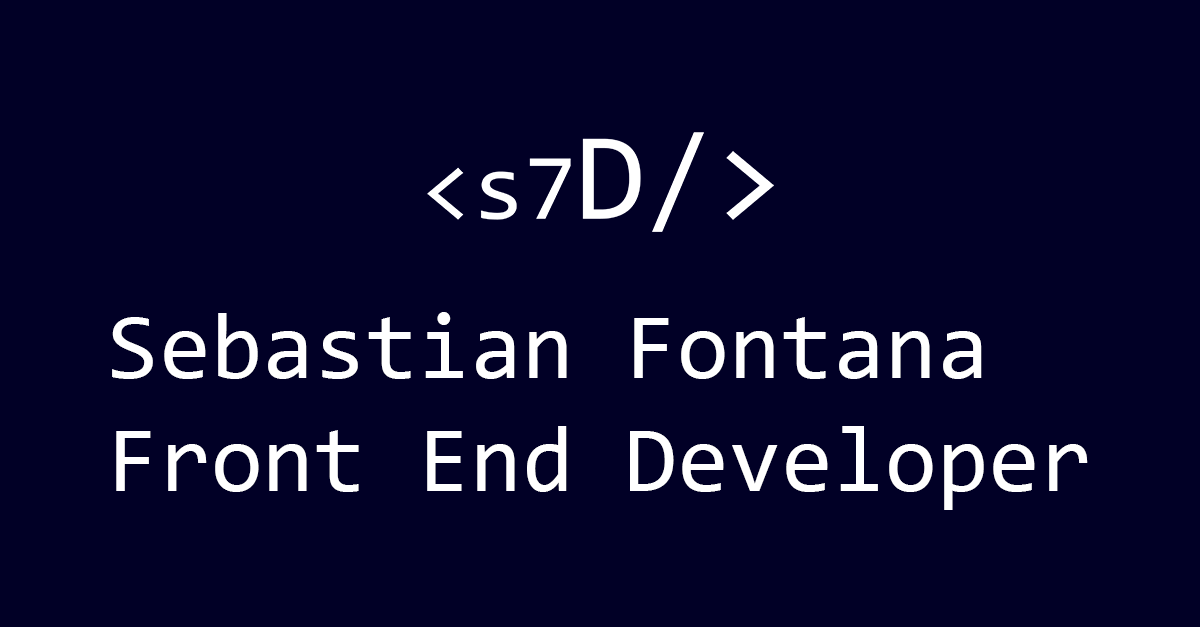
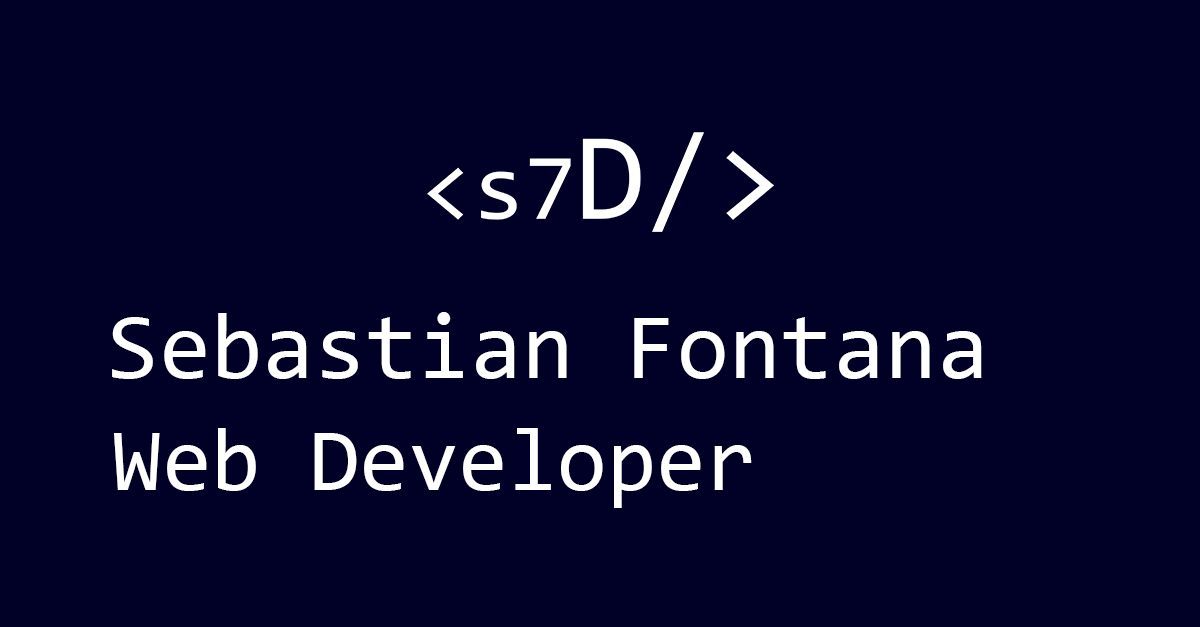
changing meta image and oc names

Changed region(s): [[0.0925, 0.6667, 0.925, 0.8182]]

diff --git a/public/index.html b/public/index.html
@@ -6,14 +6,14 @@
   <link rel="icon" href="%PUBLIC_URL%/favicon.png" />
   <meta name="viewport" content="width=device-width, initial-scale=1" />
   <meta name="theme-color" content="#000000" />
-  <meta name="description" content="Sebastian Fontana's personal website, built using React JS and Tailwind CSS. As a web developer, Sebastian showcases his portfolio, skills, and projects." />
+  <meta name="description" content="Sebastian Fontana's personal website, built using React JS and Tailwind CSS. As a web developer, I showcases my portfolio, skills, and projects." />
   <meta property="og:image" content="%PUBLIC_URL%/assets/meta-image.png" />
   <meta property="og:image:width" content="1200" />
   <meta property="og:image:height" content="627" />
   <meta property="og:image:alt" content="Sebastian Fontana Meta Image" />
 
   <link href="/public/output.css" rel="stylesheet" />
-  <title>Sebastian Fontana | Full Stack Developer</title>
+  <title>Sebastian Fontana | Web Developer</title>
 </head>
 
 <body>
